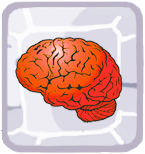
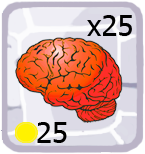
Times up, and shop buttons with prices

Changed region(s): [[0.0828, 0.7792, 0.469, 0.9351], [0.6069, 0.0779, 0.9103, 0.2338]]

diff --git a/Game.java b/Game.java
@@ -64,7 +64,7 @@ public class Game extends JPanel{
 
 	//store all buttons here
 	private GameButton timesUpButton = null;
-	private GameButton timesUp = null;
+	private TimesUp timesUp = null;
 	private GameButton logo = null;
 	private GameButton menuLogo = null;
 	private GameButton foodButton = null;
@@ -147,14 +147,11 @@ public class Game extends JPanel{
 		timesUpButton.setVisible(false);
 		add(timesUpButton);
 
-		timesUp = new GameButton(
+		timesUp = new TimesUp(
 			"assets/img/screen/times_up.png",
-			null,
-			null,
-			null,
 			(int)(App.getScreenWidth() * 0.5f),
 			(int)(App.getScreenHeight() * 0.5f),
-			0.57f, 0.68f, false
+			0.57f, 0.68f
 		);
 
 		timesUp.setVisible(false);
@@ -797,6 +794,7 @@ public class Game extends JPanel{
 			@Override
 			public void actionPerformed(ActionEvent e){
 				if(panelMode == "game"){
+					System.out.println("PAUSED");
 					gamePause();
 				}
 			}
@@ -1040,6 +1038,9 @@ public class Game extends JPanel{
 
 		//update timer
 		timerCounter.setCount(timer);
+
+		timesUp.setName(playerName);
+		timesUp.setScore(coinsSpent);
 
 		//shop states
 		if(money < 20){

diff --git a/TimesUp.java b/TimesUp.java
@@ -1,0 +1,46 @@
+import java.awt.image.*;
+import javax.imageio.*;
+import java.awt.*;
+import javax.swing.*;
+import java.awt.event.*;
+
+@SuppressWarnings("serial")
+public class TimesUp extends GameButton {
+  private String name;
+  private int score;
+
+  public TimesUp(String asset, int x, int y, float w, float h){
+    super(
+      asset,
+      null,
+      null,
+      null,
+      x, y, w, h, false
+    );
+  }
+
+  public void setName(String s){
+    this.name = s;
+  }
+
+  public void setScore(int i){
+    this.score = i;
+  }
+
+  public String getName(){
+    return name;
+  }
+
+  public int getScore(){
+    return score;
+  }
+
+  @Override
+  public void paintComponent(Graphics g){
+    super.paintComponent(g);
+    g.setFont(new Font(Font.SANS_SERIF, Font.BOLD, (int)(img.getHeight() * 0.07f)));
+    g.setColor(Color.BLACK);
+    g.drawString(name, (int)(img.getWidth() * 0.5f), (int)(img.getHeight() * 0.385f));
+    g.drawString(Integer.toString(score), (int)(img.getWidth() * 0.5f), (int)(img.getHeight() * 0.57f));
+  }
+}
